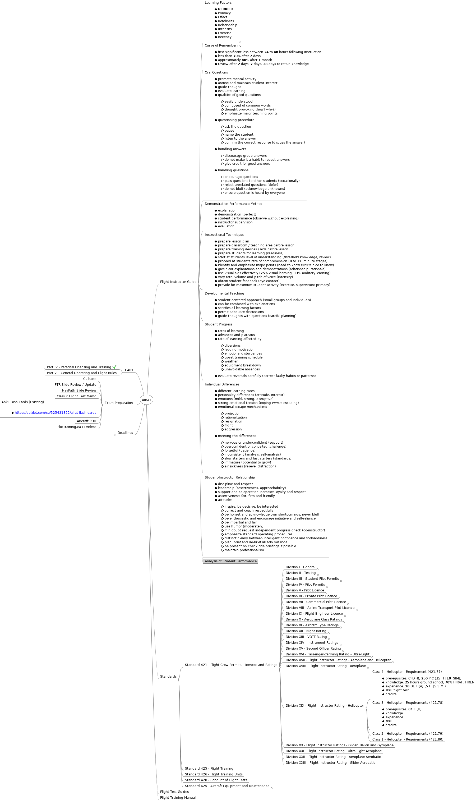
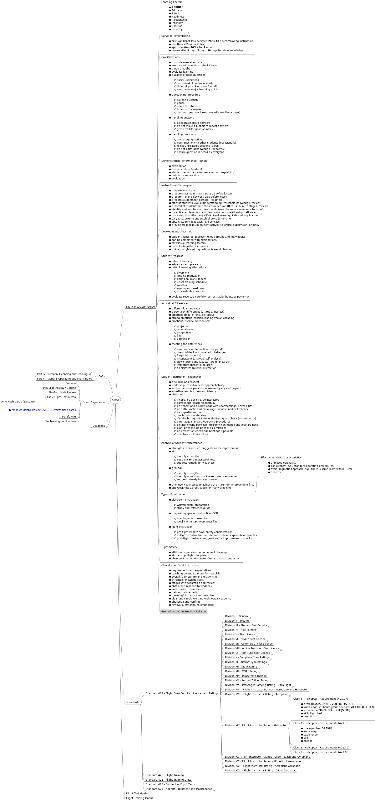
extended AIRAT mind map

diff --git a/FI/Documents/CARS/AIRAT.mm b/FI/Documents/CARS/AIRAT.mm
@@ -352,8 +352,7 @@
       </li>
     </ul>
   </body>
-</html>
-</richcontent>
+</html></richcontent>
 </node>
 <node CREATED="1605045089851" ID="ID_142106825" MODIFIED="1605215839795">
 <richcontent TYPE="NODE"><html>
@@ -382,10 +381,9 @@
       </li>
     </ul>
   </body>
-</html>
-</richcontent>
+</html></richcontent>
 </node>
-<node CREATED="1605215900814" ID="ID_1418402403" MODIFIED="1605218940096">
+<node CREATED="1605215900814" ID="ID_1418402403" MODIFIED="1605293056112">
 <richcontent TYPE="NODE"><html>
   <head>
     
@@ -411,7 +409,7 @@
         start at students level of understanding (threshold knowledge, review)
       </li>
       <li>
-        proceed at students rate of comprehension (<b>8</b>&#160;to <b>12</b>&#160;&#160;minute stages)
+        proceed at students rate of comprehension (<b>8</b>&#160;to <b>12</b>&#160;&#160;minute stages, review)
       </li>
       <li>
         identify and emphasize major points (need to know <i>versus</i>&#160;nice to know)
@@ -463,8 +461,7 @@
       </li>
     </ul>
   </body>
-</html>
-</richcontent>
+</html></richcontent>
 </node>
 <node CREATED="1605045163181" ID="ID_1352987692" MODIFIED="1605221591480">
 <richcontent TYPE="NODE"><html>
@@ -514,8 +511,7 @@
       </li>
     </ul>
   </body>
-</html>
-</richcontent>
+</html></richcontent>
 </node>
 <node CREATED="1605045189553" ID="ID_1268950095" MODIFIED="1605226518908">
 <richcontent TYPE="NODE"><html>
@@ -589,8 +585,7 @@
       </li>
     </ul>
   </body>
-</html>
-</richcontent>
+</html></richcontent>
 </node>
 <node CREATED="1605045230373" ID="ID_1237228516" MODIFIED="1605227934111">
 <richcontent TYPE="NODE"><html>
@@ -658,10 +653,229 @@
       </li>
     </ul>
   </body>
+</html></richcontent>
+</node>
+<node CREATED="1605227989559" ID="ID_1976536503" MODIFIED="1605233571370">
+<richcontent TYPE="NODE"><html>
+  <head>
+    
+  </head>
+  <body>
+    <p>
+      Analysis of Student Performance
+    </p>
+    <ul>
+      <li>
+        strengths, weaknesses, suggestions for improvement
+      </li>
+      <li>
+        air:
+
+        <ul>
+          <li>
+            identify strengths
+          </li>
+          <li>
+            pin-point <b>one</b>&#160;major weakness
+          </li>
+          <li>
+            suggest remedy for weakness
+          </li>
+        </ul>
+      </li>
+      <li>
+        ground:
+
+        <ul>
+          <li>
+            identify strengths
+          </li>
+          <li>
+            identify a maximum of <b>three</b>&#160;major weaknesses
+          </li>
+          <li>
+            suggest remedy for weaknesses
+          </li>
+        </ul>
+      </li>
+      <li>
+        prioritize weaknesses to achieve the maximum improvement first
+      </li>
+      <li>
+        one weakness as root cause for many problems
+      </li>
+    </ul>
+  </body>
+</html></richcontent>
+<node CREATED="1605233620655" ID="ID_45050337" MODIFIED="1605243565435">
+<richcontent TYPE="NODE"><html>
+  <head>
+    
+  </head>
+  <body>
+    <p>
+      Effective Analysis Characteristics
+    </p>
+    <ul>
+      <li>
+        unbiased objectivity
+      </li>
+      <li>
+        consistency (e.g., standard operating procedures)
+      </li>
+      <li>
+        avoid dogmatic approach (e.g., there is some room within SOPs)
+      </li>
+      <li>
+        honesty
+      </li>
+    </ul>
+  </body>
+</html></richcontent>
+</node>
+</node>
+<node CREATED="1605233042301" ID="ID_1985758087" MODIFIED="1605294467740">
+<richcontent TYPE="NODE"><html>
+  <head>
+    
+  </head>
+  <body>
+    <p>
+      Types of Instruction
+    </p>
+    <ul>
+      <li>
+        classroom instruction
+
+        <ul>
+          <li>
+            written exam preparation
+          </li>
+          <li>
+            study and reference guide
+          </li>
+        </ul>
+      </li>
+      <li>
+        preparatory ground instruction (PGI)
+
+        <ul>
+          <li>
+            how to perform exercises
+          </li>
+          <li>
+            ideally within <b>24</b>&#160;hours prior flight
+          </li>
+        </ul>
+      </li>
+      <li>
+        flight instruction
+
+        <ul>
+          <li>
+            pre-flight (what? how? safety considerations)
+          </li>
+          <li>
+            in-flight (control transfer, demonstration - explanation - practice)
+          </li>
+          <li>
+            post-flight (feeback, suggestions for improvement, outlook)
+          </li>
+        </ul>
+      </li>
+    </ul>
+  </body>
 </html>
 </richcontent>
 </node>
-<node CREATED="1605227989559" ID="ID_1976536503" MODIFIED="1605227997350" TEXT="Analysis of Student Performance"/>
+<node CREATED="1605294570303" ID="ID_172214988" MODIFIED="1605294850075">
+<richcontent TYPE="NODE"><html>
+  <head>
+    
+  </head>
+  <body>
+    <p>
+      Flight Safety
+    </p>
+    <ul>
+      <li>
+        attitude, supervision, enforcement, training
+      </li>
+      <li>
+        airmanship, flight discipline
+      </li>
+      <li>
+        observe, identify, eliminate (firm and consistent action)
+      </li>
+    </ul>
+  </body>
+</html>
+</richcontent>
+</node>
+<node CREATED="1605233200795" ID="ID_1286269211" MODIFIED="1605295426301">
+<richcontent TYPE="NODE"><html>
+  <head>
+    
+  </head>
+  <body>
+    <p>
+      Checklist for Good Instruction
+    </p>
+    <ul>
+      <li>
+        requirements and expectations
+      </li>
+      <li>
+        teaching points, rationale for new skills
+      </li>
+      <li>
+        overall (big) picture and relationship
+      </li>
+      <li>
+        threshold knowledge test
+      </li>
+      <li>
+        stages with separation and review
+      </li>
+      <li>
+        obtain and respond to feedback
+      </li>
+      <li>
+        enthusiastic presentation
+      </li>
+      <li>
+        training (visual) aids
+      </li>
+      <li>
+        meaningful practice and exercise
+      </li>
+      <li>
+        clear and simple wording with logical sequence
+      </li>
+      <li>
+        challenge and confirm
+      </li>
+      <li>
+        review, summarize, re-emphasize
+      </li>
+    </ul>
+  </body>
+</html>
+</richcontent>
+</node>
+<node CREATED="1605295457631" ID="ID_1660435857" MODIFIED="1605295478715">
+<richcontent TYPE="NODE"><html>
+  <head>
+    
+  </head>
+  <body>
+    <p>
+      Ground and Air Instruction Syllabus
+    </p>
+  </body>
+</html>
+</richcontent>
+</node>
 </node>
 <node CREATED="1601686478539" ID="ID_446566040" MODIFIED="1603839857430" POSITION="left" TEXT="CARs">
 <node CREATED="1601687030791" FOLDED="true" ID="ID_1799555625" MODIFIED="1604518081810" TEXT="Part IV - Personal Licensing and Training">
